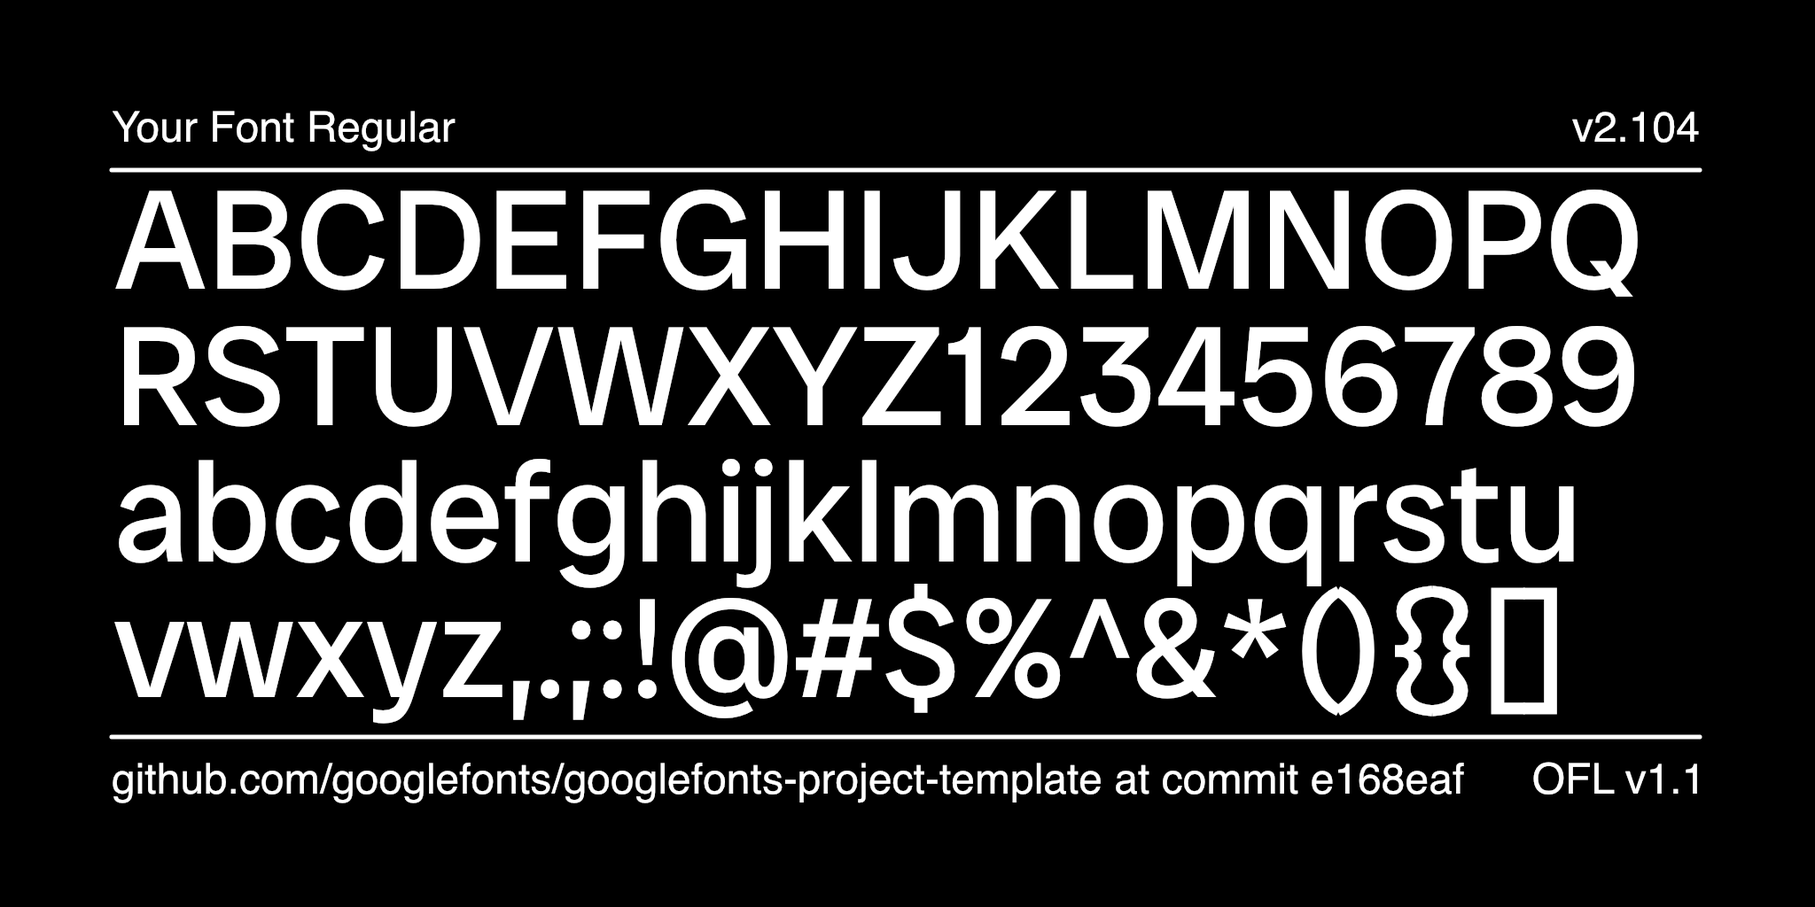
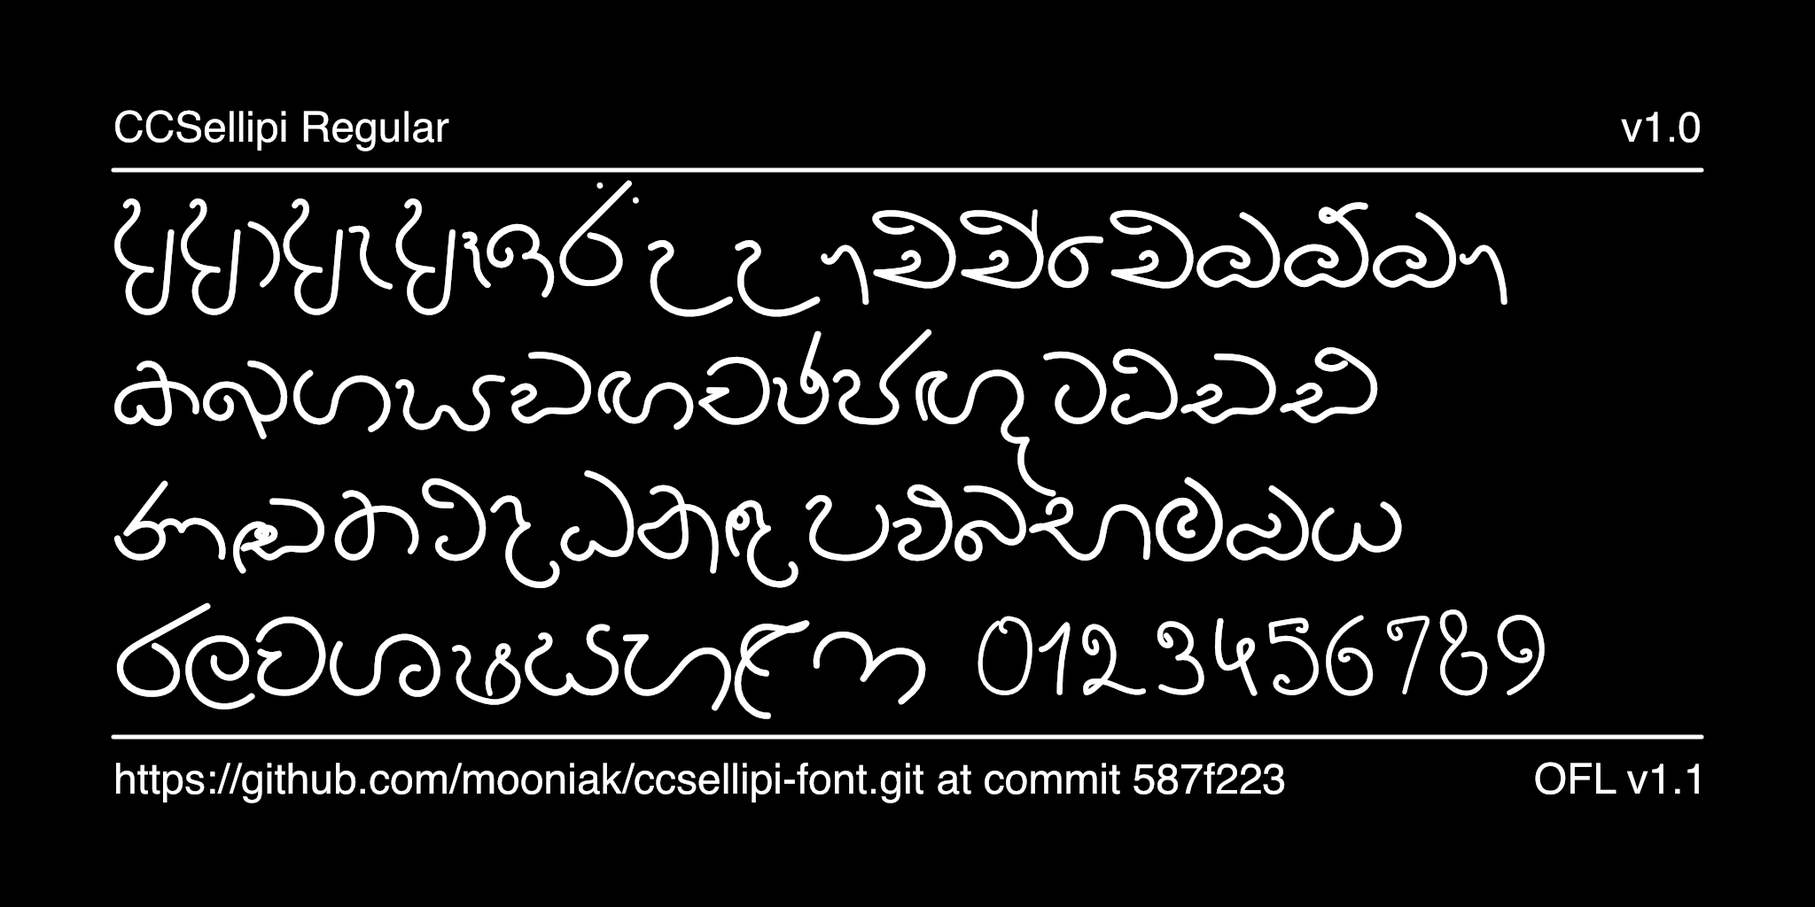
README, credits, article and specimens
Fills in the project template's placeholders:
- README: the font, its ASCII to Unicode port, font data and coverage
  from the release build, OpenType features, build and release steps
- AUTHORS.txt and CONTRIBUTORS.txt: Damith Welikala; OFL.txt line 1 is
  the font's copyright
- documentation/ARTICLE.en_us.html: the font description
- specimens: image1/image2.py point at fonts/ttf with Sinhala text drawn
  from the font's own coverage, rendered from a local --channel release
  build

diff --git a/documentation/ARTICLE.en_us.html b/documentation/ARTICLE.en_us.html
@@ -1,12 +1,17 @@
 <p>
-    Please add a text describing the font here, 100 chracters or more, but no more than 500 words.
-    See https://googlefonts.github.io/gf-guide/article.html for further reference.
-    Please make sure that HTML characters are properly encoded. ('&' becomes &amp; etc.)
-    If unsure, use https://www.freeformatter.com/html-escape.html for formatting. (Use "Escape HTML").
+    CCSellipi is a monoline, handwritten Sinhala display typeface by Damith Welikala (Ceylon Calligraphy), made in 2019.
+    Its letters are written with a single, even pen line, loose and informal, for posters, packaging, signage and titles where a friendly hand-written voice is wanted.
 </p>
 <p>
-    Could be several paragraphs, also.
+    The font was first made in the FM Abhaya ASCII layout, the encoding most Sinhala fonts used
+    before Unicode: Sinhala letters were drawn on Latin keys, so text only looked like Sinhala in
+    that one font. In 2026 Mooniak ported it to Unicode. Every glyph now sits on its Sinhala
+    code point or is reached through OpenType rules, the vowel signs that were typed as separate
+    keys are composed, and the signs are positioned exactly where the original drew them.
 </p>
 <p>
-    To contribute, see <a href="https://github.com/youruseraccount/yourrepository">github.com/youruseraccount/yourrepository</a>.
+    The font covers the Sinhala letters in common use with their vowel signs, the repaya, rakaransaya and yansaya, ක්&zwj;ෂ, න්&zwj;ද, ත්&zwj;ව and ද්&zwj;ර, a set of consonant + vowel-sign ligatures, plus digits and basic punctuation, in a single Regular weight.
+</p>
+<p>
+    To contribute, see <a href="https://github.com/mooniak/ccsellipi-font">github.com/mooniak/ccsellipi-font</a>.
 </p>

diff --git a/documentation/image2.py b/documentation/image2.py
@@ -1,7 +1,7 @@
 # This script is meant to be run from the root level
 # of your font's git repository. For example, from a Unix terminal:
-# $ git clone my-font
-# $ cd my-font
+# $ git clone https://github.com/mooniak/ccsellipi-font.git
+# $ cd ccsellipi-font
 # $ python3 documentation/image1.py --output documentation/image1.png
 
 # Import moduels from external python packages: https://pypi.org/
@@ -13,18 +13,19 @@ from fontTools.misc.fixedTools import floatToFixedToStr
 import subprocess
 import sys
 import argparse
+import glob
 
 # Constants, these are the main "settings" for the image
 WIDTH, HEIGHT, MARGIN, FRAMES = 2048, 1024, 128, 1
-FONT_PATH = "fonts/variable/MyFont[wght].ttf"
+FONT_PATH = (sorted(glob.glob("fonts/ttf/*.ttf")) or sorted(glob.glob("fonts/variable/*.ttf")))[0]
 FONT_LICENSE = "OFL v1.1"
 AUXILIARY_FONT = "Helvetica"
 AUXILIARY_FONT_SIZE = 48
 
-LINE_ONE = "ABCDEFGHIJKLMNOPQ"
-LINE_TWO = "RSTUVWXYZ123456789"
-LINE_THREE = "abcdefghijklmnopqrstu"
-LINE_FOUR = "vwxyz,.;:!@#$%^&*(){}[]"
+LINE_ONE = "අආඇඈඉඊඋඌඑඒඓඔඕඖ"
+LINE_TWO = "කඛගඝඞඟචඡජඥටඨඩඪ"
+LINE_THREE = "ණඬතථදධනඳපඵබභමඹය"
+LINE_FOUR = "රලවශෂසහළෆ 0123456789"
 BIG_TEXT_FONT_SIZE = 160
 BIG_TEXT_SIDE_MARGIN = MARGIN * 1
 BIG_TEXT_BOTTOM_MARGIN = MARGIN * 5.45

diff --git a/documentation/image1.py b/documentation/image1.py
@@ -1,7 +1,7 @@
 # This script is meant to be run from the root level
 # of your font's git repository. For example, from a Unix terminal:
-# $ git clone my-font
-# $ cd my-font
+# $ git clone https://github.com/mooniak/ccsellipi-font.git
+# $ cd ccsellipi-font
 # $ python3 documentation/image1.py --output documentation/image1.png
 
 # Import moduels from external python packages: https://pypi.org/
@@ -13,18 +13,19 @@ from fontTools.misc.fixedTools import floatToFixedToStr
 import subprocess
 import sys
 import argparse
+import glob
 
 # Constants, these are the main "settings" for the image
 WIDTH, HEIGHT, MARGIN, FRAMES = 2048, 1024, 128, 1
-FONT_PATH = "fonts/variable/MyFont[wght].ttf"
+FONT_PATH = (sorted(glob.glob("fonts/ttf/*.ttf")) or sorted(glob.glob("fonts/variable/*.ttf")))[0]
 FONT_LICENSE = "OFL v1.1"
 AUXILIARY_FONT = "Helvetica"
 AUXILIARY_FONT_SIZE = 48
 
-BIG_TEXT = "AaBb"
-BIG_TEXT_FONT_SIZE = 730
+BIG_TEXT = "සෙල්ලිපි"
+BIG_TEXT_FONT_SIZE = 540
 BIG_TEXT_SIDE_MARGIN = MARGIN * 1
-BIG_TEXT_BOTTOM_MARGIN = MARGIN * 2
+BIG_TEXT_BOTTOM_MARGIN = MARGIN * 2.5
 
 GRID_VIEW = False # Toggle this for a grid overlay
 

diff --git a/README.md b/README.md
@@ -1,101 +1,203 @@
-## Setting up your font
+CCSellipi
+=========
 
-### New repositories
+[![Build][badge-build]][link-build]
+[![Fontspector QA][badge-qa]][link-qa]
+[![Release][badge-release]][link-release]
+[![License: OFL 1.1][badge-license]][link-license]
 
-1. Hit the green button above ("Use this template") to create your own repository.
+[badge-build]: https://github.com/mooniak/ccsellipi-font/actions/workflows/build.yaml/badge.svg?branch=dev
+[badge-qa]: https://img.shields.io/badge/dynamic/json?url=https%3A%2F%2Fsrc.mooniak.com%2Fccsellipi-font%2Fbuild.json&query=%24.qa.pass_rate&suffix=%25&label=fontspector%20QA%20(dev%20build)&color=informational
+[badge-release]: https://img.shields.io/github/v/release/mooniak/ccsellipi-font?label=release
+[badge-license]: https://img.shields.io/badge/license-OFL--1.1-green
+[link-build]: https://github.com/mooniak/ccsellipi-font/actions/workflows/build.yaml
+[link-qa]: https://src.mooniak.com/ccsellipi-font/reports/fontspector/fontspector-report.html
+[link-release]: https://github.com/mooniak/ccsellipi-font/releases
+[link-license]: OFL.txt
 
-2. Clone the repository, and replace the font sources in the `sources` directory with your own font sources. These sources may be either in Glyphs format or UFO/Designspace formats.\
-   \
-   Unlike many open source distributors, Google Fonts is **curated**. Fonts shipped to the platform have to match the [Google Fonts Specifications](https://github.com/googlefonts/gf-docs/tree/main/Spec). Please read them carefully.\
-   \
-   _(The template ships a tiny generic placeholder — "My Font", a 2-master Weight variable font with a handful of blank-slate glyphs (`.notdef`, space, H, I, l, O) as `sources/MyFont.designspace` + UFOs. It exists only so the build pipeline works out of the box; replace it with your own sources.)_
+CCSellipi is a monoline, handwritten Sinhala display typeface by Damith Welikala (Ceylon Calligraphy), made in 2019.
+Its letters are written with a single, even pen line, loose and informal, for posters, packaging, signage and titles where a friendly hand-written voice is wanted. It is published by [Mooniak](https://mooniak.com/) as a free font under the SIL Open
+Font License, in a single Regular weight.
 
-3. Then reference the sources in the file `sources/config.yaml`, as well as making any other changes you would like to make based on the instructions in the [Google Fonts Builder documentation](https://github.com/googlefonts/gftools/blob/main/Lib/gftools/builder/__init__.py).
+![CCSellipi specimen](documentation/image1.png)
+![CCSellipi character set](documentation/image2.png)
 
-4. Add yourself to the `AUTHORS.txt` and `CONTRIBUTORS.txt` files.
+## From an ASCII font to Unicode
 
-5. Fill out `documentation/ARTICLE.en_us.html` with a description of your font.
+CCSellipi was first made in the **FM Abhaya ASCII layout**, the encoding most Sinhala fonts used
+before Unicode. Sinhala letters were drawn on Latin keys (`l` was ක, `s` the is-pilla drawn to
+overprint the letter before it, `f` the kombuva typed *before* the letter, `á` a precomposed ටි).
+Text typed that way only reads as Sinhala in that one font. Search, copy-paste, spell-checking
+and screen readers all see Latin gibberish.
 
-6. Rewrite this Readme file according to the recommendations in the [Google Fonts Guide](https://googlefonts.github.io/gf-guide/readmefile.html).
+In November 2026 the source was ported to Unicode with Mooniak's
+[`ascii_to_unicode.py`](https://github.com/mooniak/mooniak-font-tools/tree/main/tools/font-migration):
 
-7. Add and commit these files to git.
+- every glyph got its Sinhala code point or a [LankaGlyphset](https://github.com/mooniak/lanka-glyphsets)
+  name reached by OpenType rules (the precomposed ටි ඩී ද්ර … are ligatures now);
+- what FM typed as several keys (ආ = `wd`, ෛ = `ff`, රු = `re` …) is composed from the same drawings;
+- the overprinting signs have zero width and mark anchors that put them exactly where the
+  original drew them; the kombuva is reordered by the shaper, not typed first.
 
-8. **At the command line, run `make customize` to ensure that all the paths and URLs in your project are correct**. This will also push your changes to GitHub.
+Every decision is in [`documentation/ascii-unicode-map.tsv`](documentation/ascii-unicode-map.tsv).
+Where this font differs from the standard FM layout, it is in
+[`documentation/ascii-overrides.tsv`](documentation/ascii-overrides.tsv): `C` is a second ක්ෂ and `J` the whole conjunct න්ද (in FM these are touching halves), `_` is the repaya, `½` a ග-like letter (`ga-sinh.alt1`).
+The port was checked by rendering 1222 texts (every glyph slot, 947 syllables, 123 words of real FM text) in the old ASCII font and, as Unicode, in the new one: 1213 came out the same. The 9 others are expected: ÷ sat on the soft-hyphen slot, which is never drawn, and ර්ය ර්ර now use the repaya, as Abhaya Libre and Noto Sans Sinhala do.
 
-9. **Set up your GitHub pages site**: go to your repository's Settings > Pages and ensure that the Build and deployment "Source" drop-down is set to "GitHub Actions". (Any preexisting Actions jobs can be re-run to publish now, or the deployment triggered also manually from the Actions tab. Subsequent commits will publish the proofs and QA results automatically.)
+**Old documents typed in the ASCII version** can be converted to Unicode text with
+[Pandukabhaya](https://github.com/akuruAI/Pandukabhaya) (`pandukabhaya fm_abhaya -i old.txt -o new.txt`).
 
-10. If GitHub Actions has successfully built the family, you will find the font binaries in the Actions tab. The official GitHub Actions documentation provides further [information](https://docs.github.com/en/actions/managing-workflow-runs/downloading-workflow-artifacts).
+## Get the font
 
-### Updating a repository
+- **Download:** the [Releases](https://github.com/mooniak/ccsellipi-font/releases) page. A
+  pre-release named `canary` is rebuilt from every push to `dev`. It is the latest development
+  work and may be broken, so don't use it in production. Its family name ends in `CANARY`, so it
+  can be installed next to a release.
+- **Proofs and QA:** the latest development build, with type proofs and the full Fontspector
+  report, is at [src.mooniak.com/ccsellipi-font](https://src.mooniak.com/ccsellipi-font/).
+- **Build it yourself:** see [Building the fonts from source](#building-the-fonts-from-source).
 
-1. To update your font repository to bring in the latest best-practices from the Google Fonts Project Template, run `make update-project-template` from the command line. This requires the `node` Javascript engine to be installed; if you don't have that already, [follow these instructions](https://nodejs.org/en/download/package-manager#macos) to install on your platform.
+## Font data
 
-2. To update the Python build chain which builds your fonts, run `make update` and `git add`/`git commit` the new `requirements.txt`.
+| | |
+|---|---|
+| **Version** | 1.000 |
+| **Script** | Sinhala (no Latin letters; digits and basic punctuation only) |
+| **Styles** | Regular |
+| **Formats** | TTF, OTF and WOFF2 (`CCSellipi-Regular.*`) |
+| **Glyphs** | 173 (107 mapped to Unicode code points; the rest are ligatures and alternates used by OpenType features) |
+| **Units per em** | 1000 |
+| **Vertical metrics** | ascent 900, descent −510, line gap 0 (1.41 em; `hhea`, typo and win; `USE_TYPO_METRICS` on) |
+| **File size** | about 62 KB (TTF), 39 KB (OTF), 32 KB (WOFF2) |
+| **Source format** | [Glyphs](https://glyphsapp.com/) 3 package (`sources/CCSellipi.glyphspackage`) |
+| **License** | [SIL Open Font License 1.1](OFL.txt) |
 
-## More things to do
+### Character coverage
 
-- `CustomFilter_GF_Latin_All.plist` in `sources` is practical if you use GlyphsApp, you can remove it otherwise. Placed in the same directory as the your `.glyphs` file, it will allow Glyphs to display a filter list for all GF Latin glyphsets in app. To make sure your font supports the minimal set required by Google Fonts, look at the `GF_Latin_Core` filter list. Find other glyphsets and list formats for different software in [GF Glyphsets repository](https://github.com/googlefonts/glyphsets/tree/main/GF_glyphsets).
+| Range | Encoded |
+|---|---|
+| Sinhala (U+0D80–0DFF) | 75 of 91, the repaya (drawn by the designer, overprinting the consonant as in the ASCII font). Not drawn: candrabindu U+0D81, ඏ ඐ U+0D8F–0D90, ඤ U+0DA4, ෳ U+0DF3, kunddaliya U+0DF4, Lith digits U+0DE6–0DEF |
+| Basic Latin | space, digits 0–9 and `% ( ) + , - . / : = ?` |
+| Other | × ÷ ‘ ’, no-break space, ZWNJ, ZWJ, dotted circle (U+25CC); a zigzag ornament on U+E000 and a letter-like drawing on U+E001 (private use) |
 
-- Once you are happy with your font, add promotional assets in the documentation directory. Make it different from the pic you use in this README. You can get inspired by existing @googlefonts posts as: https://x.com/googlefonts/status/1415562928657416192.
+### OpenType features
 
-- Google Fonts uses GitHub Releases to manage font families. If you feel your font project has hit a milestone, you must create a new release for it. In order to do this, go to the releases page and hit the "Draft a new release" button. You must provide a tag number and title which can only be a decimal number e.g. `0.100`, `1.000` etc. For the body text, mention what has changed since the last release. Once you are done, hit the "Publish release" button. Here is an example which fulfills the requirements, https://github.com/m4rc1e/test-ufr-family/releases/tag/2.019. For more info regarding GitHub release, please see the official GitHub Release [documentation](https://docs.github.com/en/repositories/releasing-projects-on-github/managing-releases-in-a-repository). **Please note that GitHub Actions must be able to build the fonts before you can make a release. Once you have made a release, the fonts and tests assets will be attached to the release automatically. This may take a while since the fonts and tests will be built from scratch so please be patient.**
+The features are generated by `ascii_to_unicode.py` from the glyphs the font has.
 
----
+| Layout table | Features |
+|---|---|
+| `GSUB` | `akhn` (ක්ෂ, න්ද, ත්ව) `rphf` (repaya) `vatu` (rakaransaya, yansaya, ද්ර) `pstf` (two-part vowels) `abvs` `blws` `psts` (consonant + sign ligatures, the hook-form ු/ූ after ක ග ත භ ශ, රු රූ) `ss01` (below-base දා) |
+| `GPOS` | `abvm` `mark` (ි ී ු ූ ් placed where the original drew them) |
 
-# My Font
+Most conjuncts fall back to a letter with a visible al-lakuna. Open questions for the designer are in [issue #1](https://github.com/mooniak/ccsellipi-font/issues/1).
 
-[![][Fontspector]](https://mooniak.github.io/mooniak-font-project-template.git/fontspector/fontspector-report.html)
-[![][OpenType]](https://mooniak.github.io/mooniak-font-project-template.git/fontspector/fontspector-report.html)
-[![][Universal]](https://mooniak.github.io/mooniak-font-project-template.git/fontspector/fontspector-report.html)
-[![][Google Fonts]](https://mooniak.github.io/mooniak-font-project-template.git/fontspector/fontspector-report.html)
-[![][Glyphset]](https://mooniak.github.io/mooniak-font-project-template.git/fontspector/fontspector-report.html)
+## Repository structure
 
-[Fontspector]: https://img.shields.io/endpoint?url=https%3A%2F%2Fmooniak.github.io%2Fmooniak-font-project-template.git%2Fbadges%2FFontspectorQA.json
-[OpenType]: https://img.shields.io/endpoint?url=https%3A%2F%2Fmooniak.github.io%2Fmooniak-font-project-template.git%2Fbadges%2FOpentypeSpecificationChecks.json
-[Universal]: https://img.shields.io/endpoint?url=https%3A%2F%2Fmooniak.github.io%2Fmooniak-font-project-template.git%2Fbadges%2FUniversalProfileChecks.json
-[Google Fonts]: https://img.shields.io/endpoint?url=https%3A%2F%2Fmooniak.github.io%2Fmooniak-font-project-template.git%2Fbadges%2FFontFileChecks.json
-[Outline Correctness]: https://img.shields.io/endpoint?url=https%3A%2F%2Fmooniak.github.io%2Fmooniak-font-project-template.git%2Fbadges%2FOutlineCorrectnessChecks.json
-[Glyphset]: https://img.shields.io/endpoint?url=https%3A%2F%2Fmooniak.github.io%2Fmooniak-font-project-template.git%2Fbadges%2FGlyphsetChecks.json
+| Path | What it is |
+|---|---|
+| `sources/CCSellipi.glyphspackage` | The font source: glyphs, anchors and OpenType feature code, as a Glyphs 3 package |
+| `sources/config.yaml` | Build configuration read by [gftools](https://github.com/googlefonts/gftools) |
+| `fontpackage.json` | Mooniak catalogue metadata (name, designer, tier, channels) |
+| `Makefile` | Build, test and proof targets (see below) |
+| `requirements.in`, `requirements.txt` | Python dependencies: the top-level list, and the pinned set used for builds |
+| `fonts/`, `out/`, `_site/` | Build output, QA/proof reports and the proof site (created by `make`; not committed) |
+| `documentation/` | Specimen images and their DrawBot scripts, the font description (`ARTICLE.en_us.html`), and the ASCII → Unicode port records (`ascii-unicode-map.tsv`, `ascii-overrides.tsv`) |
+| `scripts/` | Helper scripts used by the Makefile and CI (from the Mooniak project template) |
+| `OFL.txt`, `AUTHORS.txt`, `CONTRIBUTORS.txt` | License and credits |
 
-Description of your font goes here. We recommend to start with a very short presentation line (the kind you would use on twitter to present your project for example), and then add as much details as necesary :-) Origin of the project, idea of usage, concept of creation… but also number of masters, axes, character sets, etc.
+## Building the fonts from source
 
-Don't hesitate to create images!
+Building needs only free, open-source tools. You need Glyphs only to edit the source, not to build.
 
-![Sample Image](documentation/image1.png)
-![Sample Image](documentation/image2.png)
+### Requirements
 
-## About
+- **macOS or Linux** (on Windows, use [WSL](https://learn.microsoft.com/windows/wsl/)).
+- **Python 3.12** with `venv` and `pip`, the version CI uses. The dependencies in
+  `requirements.txt` are pinned, and other Python versions may fail to install them.
+- **Make** and **git**, and network access for the first build.
 
-Description of you and/or organisation goes here.
+### Build
 
-## Building
+```sh
+git clone https://github.com/mooniak/ccsellipi-font.git
+cd ccsellipi-font
+python3.12 -m venv venv
+make build
+```
 
-Fonts are built automatically by GitHub Actions — take a look in the "Actions" tab for the latest build.
+`make build` installs the pinned dependencies into `venv/` (first run only), then runs
+[`gftools builder`](https://github.com/googlefonts/gftools) on `sources/config.yaml`. Output:
 
-If you want to build fonts manually on your own computer:
+```
+fonts/ttf/CCSellipi-Regular.ttf
+fonts/otf/CCSellipi-Regular.otf
+fonts/webfonts/CCSellipi-Regular.woff2
+```
 
-- `make build` will produce font files.
-- `make test` will run [Fontspector](https://fonttools.github.io/fontspector/)'s quality assurance tests.
-- `make proof` will generate HTML proof files.
+Each rebuild deletes and recreates `fonts/`. `make` doesn't notice edits inside the package
+folder, so after editing the source run `rm build.stamp && make build`.
 
-The proof files and QA tests are also available automatically via GitHub Actions — look at https://mooniak.github.io/mooniak-font-project-template.git.
+### Quality checks and proofs
+
+These need two extra tools, installed with
+[`cargo binstall`](https://github.com/cargo-bins/cargo-binstall):
+
+```sh
+cargo binstall fontspector     # for `make test`
+cargo binstall diffenator3     # for `make proof`
+```
+
+| Command | What it does |
+|---|---|
+| `make test` | Runs [Fontspector](https://github.com/fonttools/fontspector) with the Google Fonts profile and writes reports to `out/fontspector/`. It doesn't stop on failures; read the report. |
+| `make proof` | Runs `diff3proof` and writes an HTML proof to `out/proof/`. |
+| `make pages` | Builds the stage-gated proof site into `_site/` (needs `make manifest` first). |
+| `make images` | Re-renders `documentation/image1.png` and `image2.png`. |
+| `make clean` | Deletes `venv/`. |
+
+Known Fontspector failures, shared by Mooniak's other Sinhala-only fonts: the Google Fonts Latin
+coverage, language-shaping and "render own name" checks (the font has no Latin letters), and the
+GF repository-layout check.
+
+## Releases and versioning
+
+Versions follow [OpenFV](https://github.com/openfv/openfv) (`MAJOR.MINOR`, three-digit minor).
+Work happens on `dev`; `main` only moves when a release is cut.
+
+| You want | Do this | CI publishes |
+|---|---|---|
+| the latest build | push to `dev` | the rolling `canary` pre-release and the proof site |
+| a fixed preview for testers | tag a `dev` commit `vX.YYY-dev.N` | a GitHub pre-release |
+| a release | merge `dev` into `main` (no squash), tag `main` `vX.YYY` | a GitHub Release |
+
+Bump `versionMajor`/`versionMinor` in the source before tagging. The next release after the
+2019 version 1.000 should be **1.001** or later.
+
+## Contributing
+
+Bug reports and design feedback are welcome in the
+[issue tracker](https://github.com/mooniak/ccsellipi-font/issues). Open pull requests against
+`dev`, edit `sources/CCSellipi.glyphspackage` with Glyphs 3, rebuild
+(`rm build.stamp && make build`) and run `make test`. Add yourself to `CONTRIBUTORS.txt`.
+
+## Credits
+
+- **Design:** Damith Welikala, Ceylon Calligraphy (2019)
+- **Unicode port, production and publishing:** [Mooniak](https://mooniak.com/) (2026)
+- **FM Abhaya mapping data:** [Pandukabhaya](https://github.com/akuruAI/Pandukabhaya) (MIT)
 
 ## Changelog
 
-When you update your font (new version or new release), please report all notable changes here, with a date.
-[Font Versioning](https://github.com/googlefonts/gf-docs/tree/main/Spec#font-versioning) is based on semver.
-Changelog example:
+**18 November 2026, version 1.000 (development)**
 
-**26 May 2021. Version 2.13**
+- Ported from the FM Abhaya ASCII layout to Unicode: LankaGlyphset names, Sinhala code points,
+  composed vowels and ligatures, generated OpenType features, mark anchors.
+- Moved to the Mooniak build pipeline: Glyphs 3 package, gftools builds with CI, proofs and QA.
+- Added no-break space, ZWJ/ZWNJ and dotted circle; Google Fonts vertical metrics; Mooniak copyright, designer, vendor ID and OFL licence in the font.
 
-- MAJOR Font turned to a variable font.
-- SIGNIFICANT New Stylistic sets added.
+**2019, version 1.000.** Damith Welikala's original, an FM-layout ASCII font made in FontForge.
 
 ## License
 
-This Font Software is licensed under the SIL Open Font License, Version 1.1.
-This license is available with a FAQ at https://openfontlicense.org
-
-## Repository Layout
-
-This font repository structure is inspired by [Unified Font Repository v0.3](https://github.com/unified-font-repository/Unified-Font-Repository), modified for the Google Fonts workflow.
+This Font Software is licensed under the SIL Open Font License, Version 1.1. This license is
+available with a FAQ at https://openfontlicense.org
